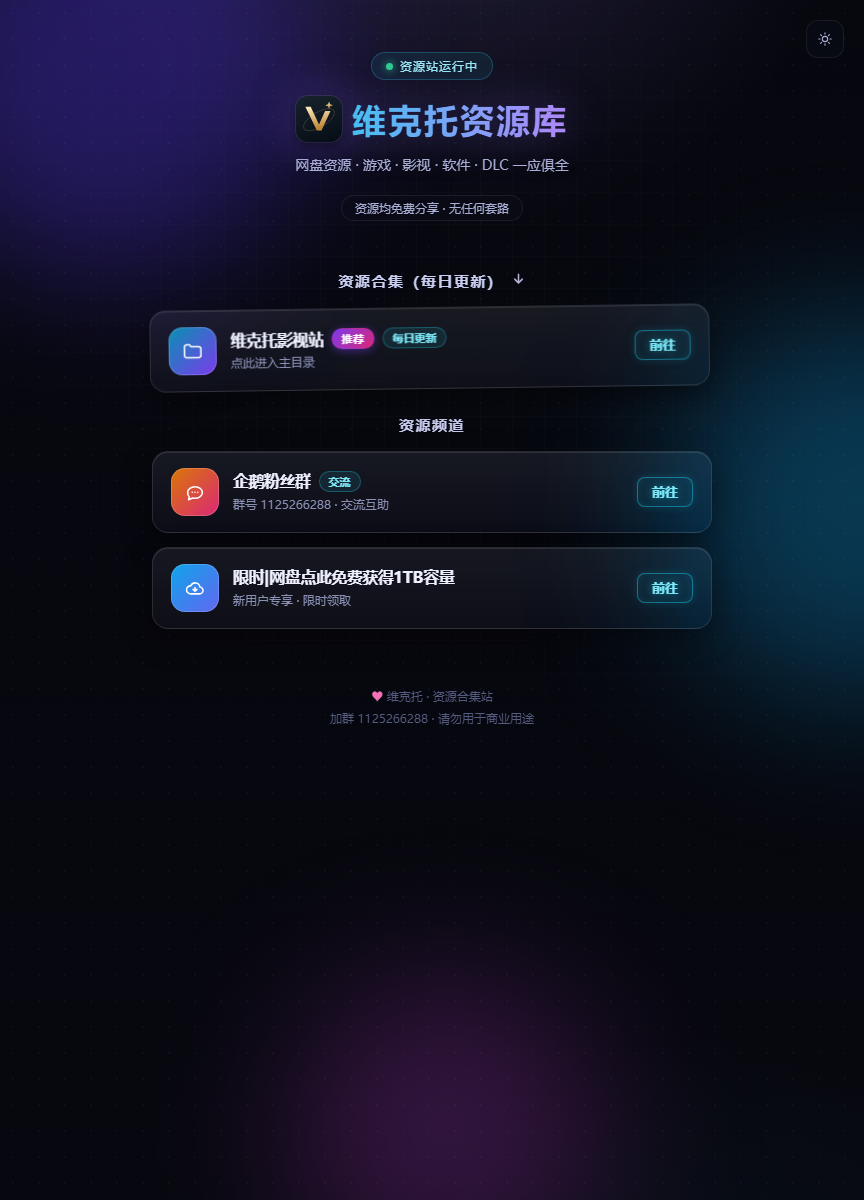
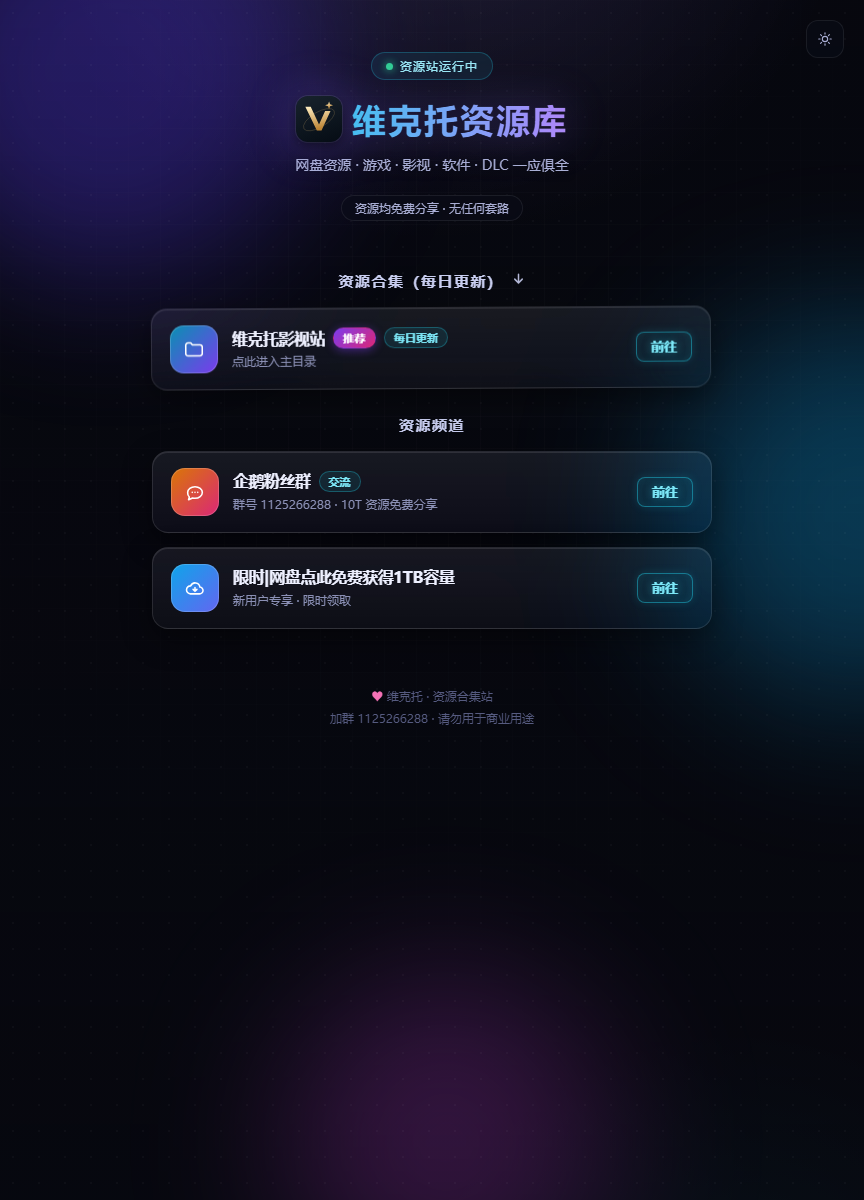
feat: use official QQ group invite link

Changed region(s): [[0.1875, 0.2467, 0.5, 0.3392], [0.75, 0.2467, 0.8125, 0.3083], [0.4062, 0.4008, 0.5, 0.4317]]

diff --git a/index.html b/index.html
@@ -24,6 +24,10 @@
      改完保存（或在 GitHub 网页上提交），刷新页面即可生效。
      ============================================================ -->
 <script>
+// QQ 群「分享群 → 复制链接」得到的官方邀请页（手机拉起 QQ，桌面直接显示群资料卡可申请加群）
+// 注意：链接里的 authKey / data 是签名参数，失效了重新复制一条替换即可
+var QQ_GROUP = 'https://qun.qq.com/universal-share/share?ac=1&authKey=I0ySQJ%2B2UJ%2Fio28LDE7S4uiKgHlUNdgLBFoW6riJGxKkt2W9U14VO78K0zIR4N6f&busi_data=eyJncm91cENvZGUiOiIxMTI1MjY2Mjg4IiwidG9rZW4iOiI1TXJMTUdpeDRPZmxXTTlyWERlTGlIdGU5cHo2clRMZS9vMlJWcU96a2w1aWVlT0NRSkVLR1A3NkdTMDR4cHBFIiwidWluIjoiMjE4NzE3MTYxMSJ9&data=KP55jhyOXE_pi6vJEUgj35WCVs3827qCPSg58b1UzM0RB4G_p_Fb3qNuXT_KQ9Jd00mWAV_AHxGvouMfsXzAdQ&svctype=4&tempid=h5_group_info';
+
 window.SITE = {
   title:    '维克托 · 资源合集',                          // 浏览器标签页标题
   badge:    '资源站运行中',                              // 顶部小圆点徽章
@@ -43,9 +47,8 @@ window.SITE = {
       href:  'https://viktorx.com/',                    // ← 改成你的影视站
       tags: [{ t: '推荐', c: 'r' }, { t: '每日更新', c: 'v opt' }] },
 
-    { title: '企鹅粉丝群', note: '群号 1125266288 · 交流互助',
-      // 手机点开直接拉起 QQ 群资料卡；桌面/拉不起时走 HTML 里的 data-fallback
-      href:  'mqqapi://card/show_pslcard?src_type=internal&version=1&uin=1125266288&card_type=group&source=qrcode',
+    { title: '企鹅粉丝群', note: '群号 1125266288 · 10T 资源免费分享',
+      href:  QQ_GROUP,
       tags: [{ t: '交流', c: 'v' }] },
 
     { title: '限时|网盘点此免费获得1TB容量', note: '新用户专享 · 限时领取',
@@ -408,8 +411,8 @@ window.SITE = {
 
     <div class="sec" data-slot="group1">资源频道</div>
 
-    <a class="item" style="animation-delay:.08s" href="mqqapi://card/show_pslcard?src_type=internal&version=1&uin=1125266288&card_type=group&source=qrcode"
-       data-fallback="https://qun.qq.com/joinGroup.html?gc=1125266288" data-fallback-text="请在手机上打开，或搜索群号 1125266288 加群">
+    <a class="item" style="animation-delay:.08s" href="https://qun.qq.com/universal-share/share?ac=1&amp;authKey=I0ySQJ%2B2UJ%2Fio28LDE7S4uiKgHlUNdgLBFoW6riJGxKkt2W9U14VO78K0zIR4N6f&amp;busi_data=eyJncm91cENvZGUiOiIxMTI1MjY2Mjg4IiwidG9rZW4iOiI1TXJMTUdpeDRPZmxXTTlyWERlTGlIdGU5cHo2clRMZS9vMlJWcU96a2w1aWVlT0NRSkVLR1A3NkdTMDR4cHBFIiwidWluIjoiMjE4NzE3MTYxMSJ9&amp;data=KP55jhyOXE_pi6vJEUgj35WCVs3827qCPSg58b1UzM0RB4G_p_Fb3qNuXT_KQ9Jd00mWAV_AHxGvouMfsXzAdQ&amp;svctype=4&amp;tempid=h5_group_info">
+
       <span class="ava g3" aria-hidden="true">
         <svg viewBox="0 0 24 24" fill="none" stroke="currentColor" stroke-width="1.7" stroke-linecap="round" stroke-linejoin="round">
           <path d="M20 12.6c0 3.5-3.6 6.3-8 6.3a9.7 9.7 0 0 1-2.6-.35L5 20.5l.8-3.1A6 6 0 0 1 4 12.6C4 9.1 7.6 6.3 12 6.3s8 2.8 8 6.3z"></path>
@@ -418,7 +421,7 @@ window.SITE = {
       </span>
       <span class="info">
         <span class="trow"><span class="title">企鹅粉丝群</span><span class="pill v">交流</span></span>
-        <span class="note">群号 1125266288 · 交流互助</span>
+        <span class="note">群号 1125266288 · 10T 资源免费分享</span>
       </span>
       <span class="go-btn">前往</span>
     </a>
@@ -526,6 +529,7 @@ window.SITE = {
     try {
       var raw = items[i].getAttribute('href') || '';
       if (!/^https?:/i.test(raw)) continue;          // mqqapi 之类的 scheme 不追加参数
+      if (/qun\.qq\.com|qm\.qq\.com/i.test(raw)) continue;  // QQ 群分享链接带签名，不能加参数
       var u = new URL(raw, location.href);
       u.searchParams.set('from', from);
       items[i].setAttribute('href', u.href);
